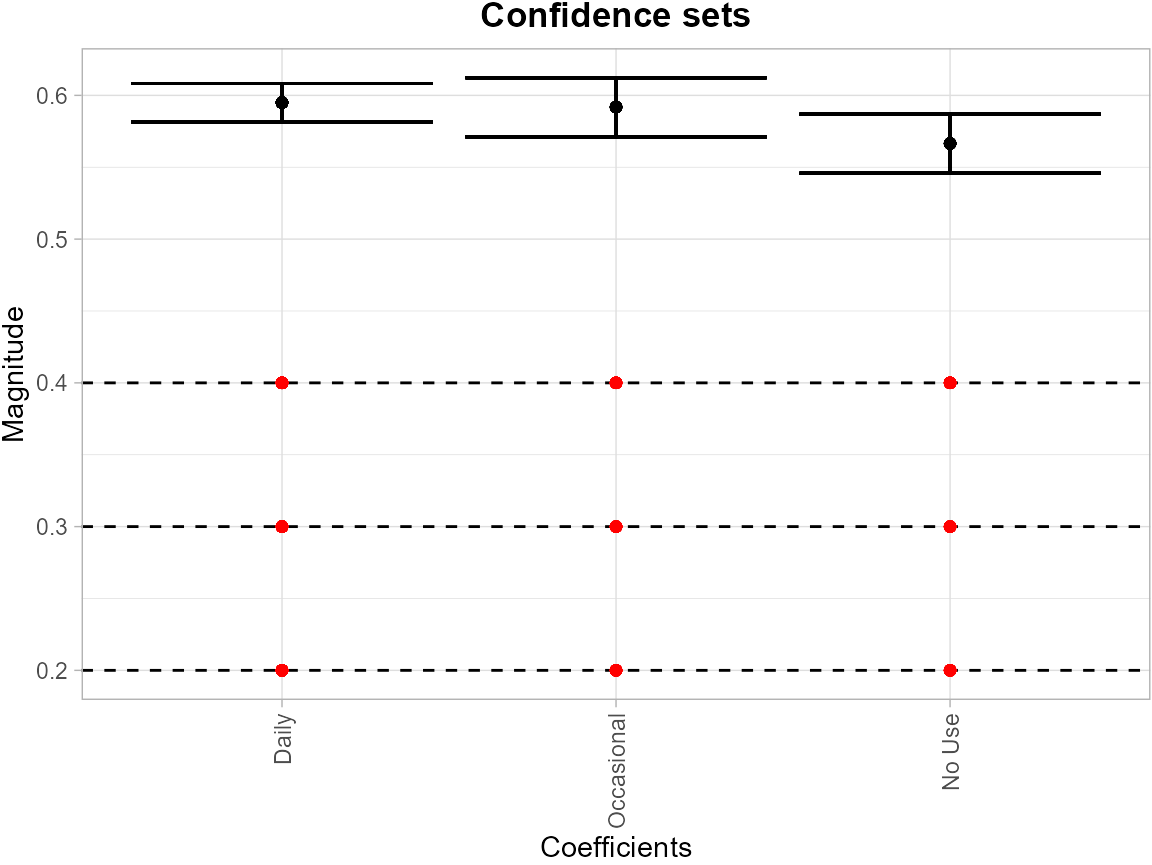
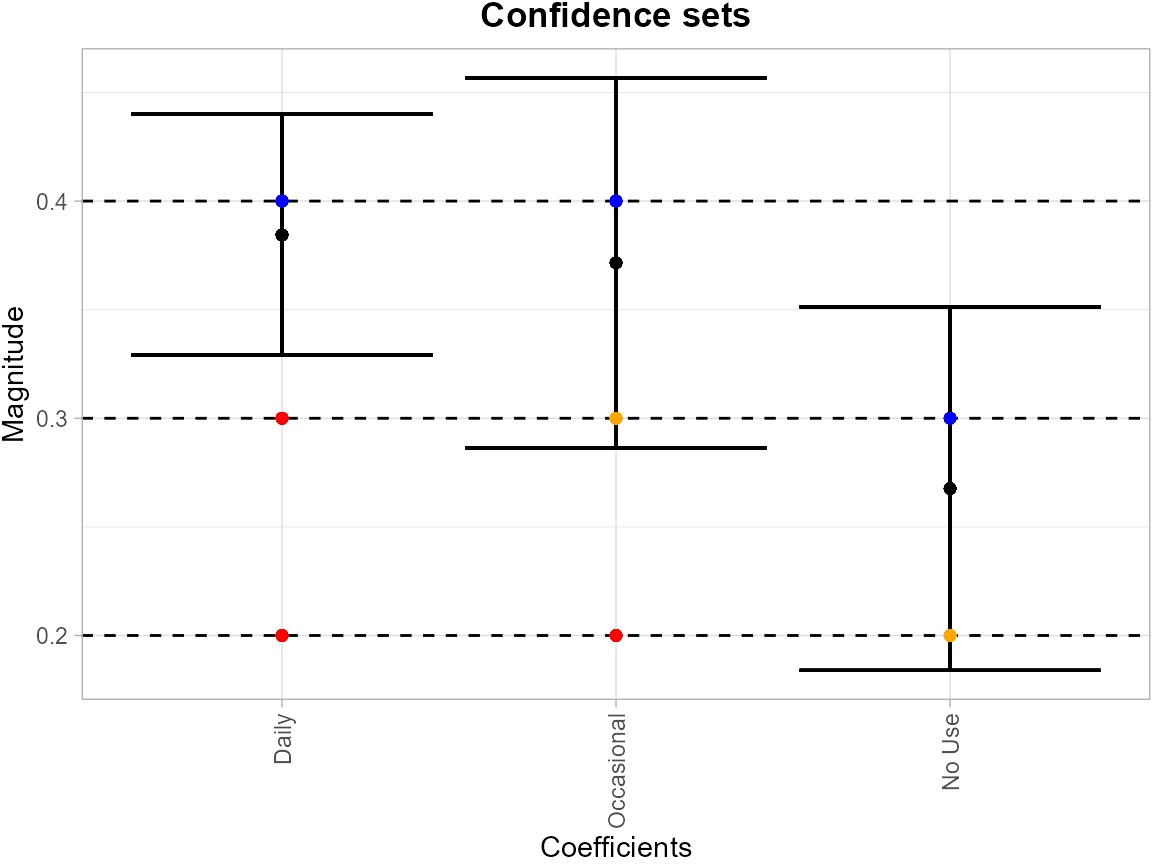
Update website, correct problems in SCB calculation

diff --git a/docs/articles/Linear_Model_Example.html b/docs/articles/Linear_Model_Example.html
@@ -263,48 +263,11 @@ for the linear combination
 <span>  scb_up <span class="op">=</span> <span class="fu"><a href="https://rdrr.io/r/base/sum.html" class="external-link">sum</a></span><span class="op">(</span><span class="va">w</span> <span class="op">*</span> <span class="va">results</span><span class="op">$</span><span class="va">scb_up</span><span class="op">)</span><span class="op">)</span></span>
 <span><span class="co">#&gt;      Mean   scb_low    scb_up </span></span>
 <span><span class="co">#&gt; 1.3703479 0.8657867 1.8749091</span></span></code></pre></div>
-<p>In the following example, we load <code>mtcars</code>, a popular
-dataset from base R, and establishes simultaneous confidence bands for
-the expected response surface
-<math display="inline" xmlns="http://www.w3.org/1998/Math/MathML"><semantics><mrow><mi>E</mi><mrow><mo stretchy="true" form="prefix">[</mo><mi>m</mi><mi>p</mi><mi>g</mi><mo stretchy="false" form="prefix">|</mo><mi>w</mi><mi>t</mi><mo>,</mo><mi>a</mi><mi>m</mi><mo>=</mo><mn>0</mn><mo stretchy="true" form="postfix">]</mo></mrow></mrow><annotation encoding="application/x-tex">E[mpg|wt,am=0]</annotation></semantics></math></p>
-<div class="sourceCode" id="cb12"><pre class="downlit sourceCode r">
-<code class="sourceCode R"><span><span class="kw"><a href="https://rdrr.io/r/base/library.html" class="external-link">library</a></span><span class="op">(</span><span class="va"><a href="https://angelayustat.github.io/SCoRES">SCoRES</a></span><span class="op">)</span></span>
-<span><span class="kw"><a href="https://rdrr.io/r/base/library.html" class="external-link">library</a></span><span class="op">(</span><span class="va"><a href="https://dplyr.tidyverse.org" class="external-link">dplyr</a></span><span class="op">)</span></span>
-<span><span class="fu"><a href="https://rdrr.io/r/base/Random.html" class="external-link">set.seed</a></span><span class="op">(</span><span class="fl">262</span><span class="op">)</span></span>
-<span><span class="fu"><a href="https://rdrr.io/r/utils/data.html" class="external-link">data</a></span><span class="op">(</span><span class="va">mtcars</span><span class="op">)</span></span>
-<span><span class="va">df</span> <span class="op">&lt;-</span> <span class="va">mtcars</span> <span class="op"><a href="https://magrittr.tidyverse.org/reference/pipe.html" class="external-link">%&gt;%</a></span></span>
-<span>      <span class="fu">dplyr</span><span class="fu">::</span><span class="fu"><a href="https://dplyr.tidyverse.org/reference/select.html" class="external-link">select</a></span><span class="op">(</span><span class="va">mpg</span>, <span class="va">wt</span>, <span class="va">am</span><span class="op">)</span> <span class="op"><a href="https://magrittr.tidyverse.org/reference/pipe.html" class="external-link">%&gt;%</a></span></span>
-<span>      <span class="fu">dplyr</span><span class="fu">::</span><span class="fu"><a href="https://dplyr.tidyverse.org/reference/mutate.html" class="external-link">mutate</a></span><span class="op">(</span>am <span class="op">=</span> <span class="fu"><a href="https://rdrr.io/r/base/factor.html" class="external-link">as.factor</a></span><span class="op">(</span><span class="va">am</span><span class="op">)</span><span class="op">)</span></span>
-<span><span class="va">grid</span> <span class="op">&lt;-</span> <span class="va">df</span> <span class="op"><a href="https://magrittr.tidyverse.org/reference/pipe.html" class="external-link">%&gt;%</a></span></span>
-<span>      <span class="fu">dplyr</span><span class="fu">::</span><span class="fu"><a href="https://dplyr.tidyverse.org/reference/select.html" class="external-link">select</a></span><span class="op">(</span><span class="va">wt</span>, <span class="va">am</span><span class="op">)</span> <span class="op"><a href="https://magrittr.tidyverse.org/reference/pipe.html" class="external-link">%&gt;%</a></span></span>
-<span>      <span class="fu">dplyr</span><span class="fu">::</span><span class="fu"><a href="https://dplyr.tidyverse.org/reference/mutate.html" class="external-link">mutate</a></span><span class="op">(</span>am <span class="op">=</span> <span class="fl">0</span><span class="op">)</span> <span class="op"><a href="https://magrittr.tidyverse.org/reference/pipe.html" class="external-link">%&gt;%</a></span></span>
-<span>      <span class="fu">dplyr</span><span class="fu">::</span><span class="fu"><a href="https://dplyr.tidyverse.org/reference/mutate.html" class="external-link">mutate</a></span><span class="op">(</span>am <span class="op">=</span> <span class="fu"><a href="https://rdrr.io/r/base/factor.html" class="external-link">as.factor</a></span><span class="op">(</span><span class="va">am</span><span class="op">)</span><span class="op">)</span></span>
-<span><span class="co"># fit the linear regression model and obtain the SCB for y</span></span>
-<span><span class="va">model</span> <span class="op">&lt;-</span> <span class="st">"mpg ~ ."</span></span>
-<span><span class="va">results</span> <span class="op">&lt;-</span> <span class="fu"><a href="../reference/SCB_linear_outcome.html">SCB_linear_outcome</a></span><span class="op">(</span>df_fit <span class="op">=</span> <span class="va">df</span>, model <span class="op">=</span> <span class="va">model</span>, grid_df <span class="op">=</span> <span class="va">grid</span><span class="op">)</span></span></code></pre></div>
-<p>The <code>levels = c(-25, 20, 15)</code> argument specifies a set of
-thresholds, and <code><a href="../reference/plot_cs.html">SCoRES::plot_cs()</a></code> function estimates
-multiple inverse upper excursion sets corresponding to these thresholds,
-and plot the estimated inverse region, the inner confidence region, and
-the outer confidence region.</p>
-<div class="sourceCode" id="cb13"><pre class="downlit sourceCode r">
-<code class="sourceCode R"><span><span class="va">results</span> <span class="op">&lt;-</span> <span class="fu">tibble</span><span class="fu">::</span><span class="fu"><a href="https://tibble.tidyverse.org/reference/as_tibble.html" class="external-link">as_tibble</a></span><span class="op">(</span><span class="va">results</span><span class="op">)</span></span>
-<span><span class="fu"><a href="https://rdrr.io/r/base/warning.html" class="external-link">suppressWarnings</a></span><span class="op">(</span><span class="fu"><a href="../reference/plot_cs.html">plot_cs</a></span><span class="op">(</span><span class="va">results</span>,</span>
-<span>        levels <span class="op">=</span> <span class="fu"><a href="https://rdrr.io/r/base/c.html" class="external-link">c</a></span><span class="op">(</span><span class="fl">25</span>, <span class="fl">20</span>, <span class="fl">15</span><span class="op">)</span>, </span>
-<span>        x <span class="op">=</span> <span class="va">grid</span><span class="op">$</span><span class="va">wt</span>, </span>
-<span>        mu_hat <span class="op">=</span> <span class="va">results</span><span class="op">$</span><span class="va">Mean</span>, </span>
-<span>        xlab <span class="op">=</span> <span class="st">"wt"</span>, </span>
-<span>        ylab <span class="op">=</span> <span class="st">"mpg"</span>, </span>
-<span>        level_label <span class="op">=</span> <span class="cn">T</span>, </span>
-<span>        min.size <span class="op">=</span> <span class="fl">40</span>, </span>
-<span>        palette <span class="op">=</span> <span class="st">"Spectral"</span>, </span>
-<span>        color_level_label <span class="op">=</span> <span class="st">"black"</span><span class="op">)</span><span class="op">)</span></span></code></pre></div>
-<p><img src="Linear_Model_Example_files/figure-html/mtcars_plot_cs_linear-1.png" width="576"></p>
 <p>In the following example, we load <code>ipad</code> dataset, and
 establishes simultaneous confidence bands for the expected response
 surface
 <math display="inline" xmlns="http://www.w3.org/1998/Math/MathML"><semantics><mrow><mi>E</mi><mrow><mo stretchy="true" form="prefix">[</mo><mi>i</mi><mi>_</mi><mi>c</mi><mi>o</mi><mi>m</mi><mi>p</mi><mi>o</mi><mi>s</mi><mi>i</mi><mi>t</mi><mi>e</mi><mi>_</mi><mi>s</mi><mi>c</mi><mi>o</mi><mi>r</mi><mi>e</mi><mo stretchy="false" form="prefix">|</mo><mi>u</mi><mi>s</mi><mi>e</mi><mi>_</mi><mi>g</mi><mi>r</mi><mi>o</mi><mi>u</mi><mi>p</mi><mo stretchy="true" form="postfix">]</mo></mrow></mrow><annotation encoding="application/x-tex">E[i\_composite\_score|use\_group]</annotation></semantics></math></p>
-<div class="sourceCode" id="cb14"><pre class="downlit sourceCode r">
+<div class="sourceCode" id="cb12"><pre class="downlit sourceCode r">
 <code class="sourceCode R"><span><span class="kw"><a href="https://rdrr.io/r/base/library.html" class="external-link">library</a></span><span class="op">(</span><span class="va"><a href="https://angelayustat.github.io/SCoRES">SCoRES</a></span><span class="op">)</span></span>
 <span><span class="kw"><a href="https://rdrr.io/r/base/library.html" class="external-link">library</a></span><span class="op">(</span><span class="va"><a href="https://dplyr.tidyverse.org" class="external-link">dplyr</a></span><span class="op">)</span></span>
 <span><span class="fu"><a href="https://rdrr.io/r/base/Random.html" class="external-link">set.seed</a></span><span class="op">(</span><span class="fl">262</span><span class="op">)</span></span>
@@ -323,7 +286,7 @@ thresholds, and <code><a href="../reference/plot_cs.html">SCoRES::plot_cs()</a><
 multiple inverse upper excursion sets corresponding to these thresholds,
 and plot the estimated inverse region, the inner confidence region, and
 the outer confidence region.</p>
-<div class="sourceCode" id="cb15"><pre class="downlit sourceCode r">
+<div class="sourceCode" id="cb13"><pre class="downlit sourceCode r">
 <code class="sourceCode R"><span><span class="va">results</span> <span class="op">&lt;-</span> <span class="fu">tibble</span><span class="fu">::</span><span class="fu"><a href="https://tibble.tidyverse.org/reference/as_tibble.html" class="external-link">as_tibble</a></span><span class="op">(</span><span class="va">results</span><span class="op">)</span></span>
 <span><span class="fu"><a href="https://rdrr.io/r/base/warning.html" class="external-link">suppressWarnings</a></span><span class="op">(</span><span class="fu"><a href="../reference/plot_cs.html">plot_cs</a></span><span class="op">(</span><span class="va">results</span>,</span>
 <span>        levels <span class="op">=</span> <span class="fu"><a href="https://rdrr.io/r/base/c.html" class="external-link">c</a></span><span class="op">(</span><span class="fl">0.2</span>, <span class="fl">0.3</span>, <span class="fl">0.4</span><span class="op">)</span>, </span>
